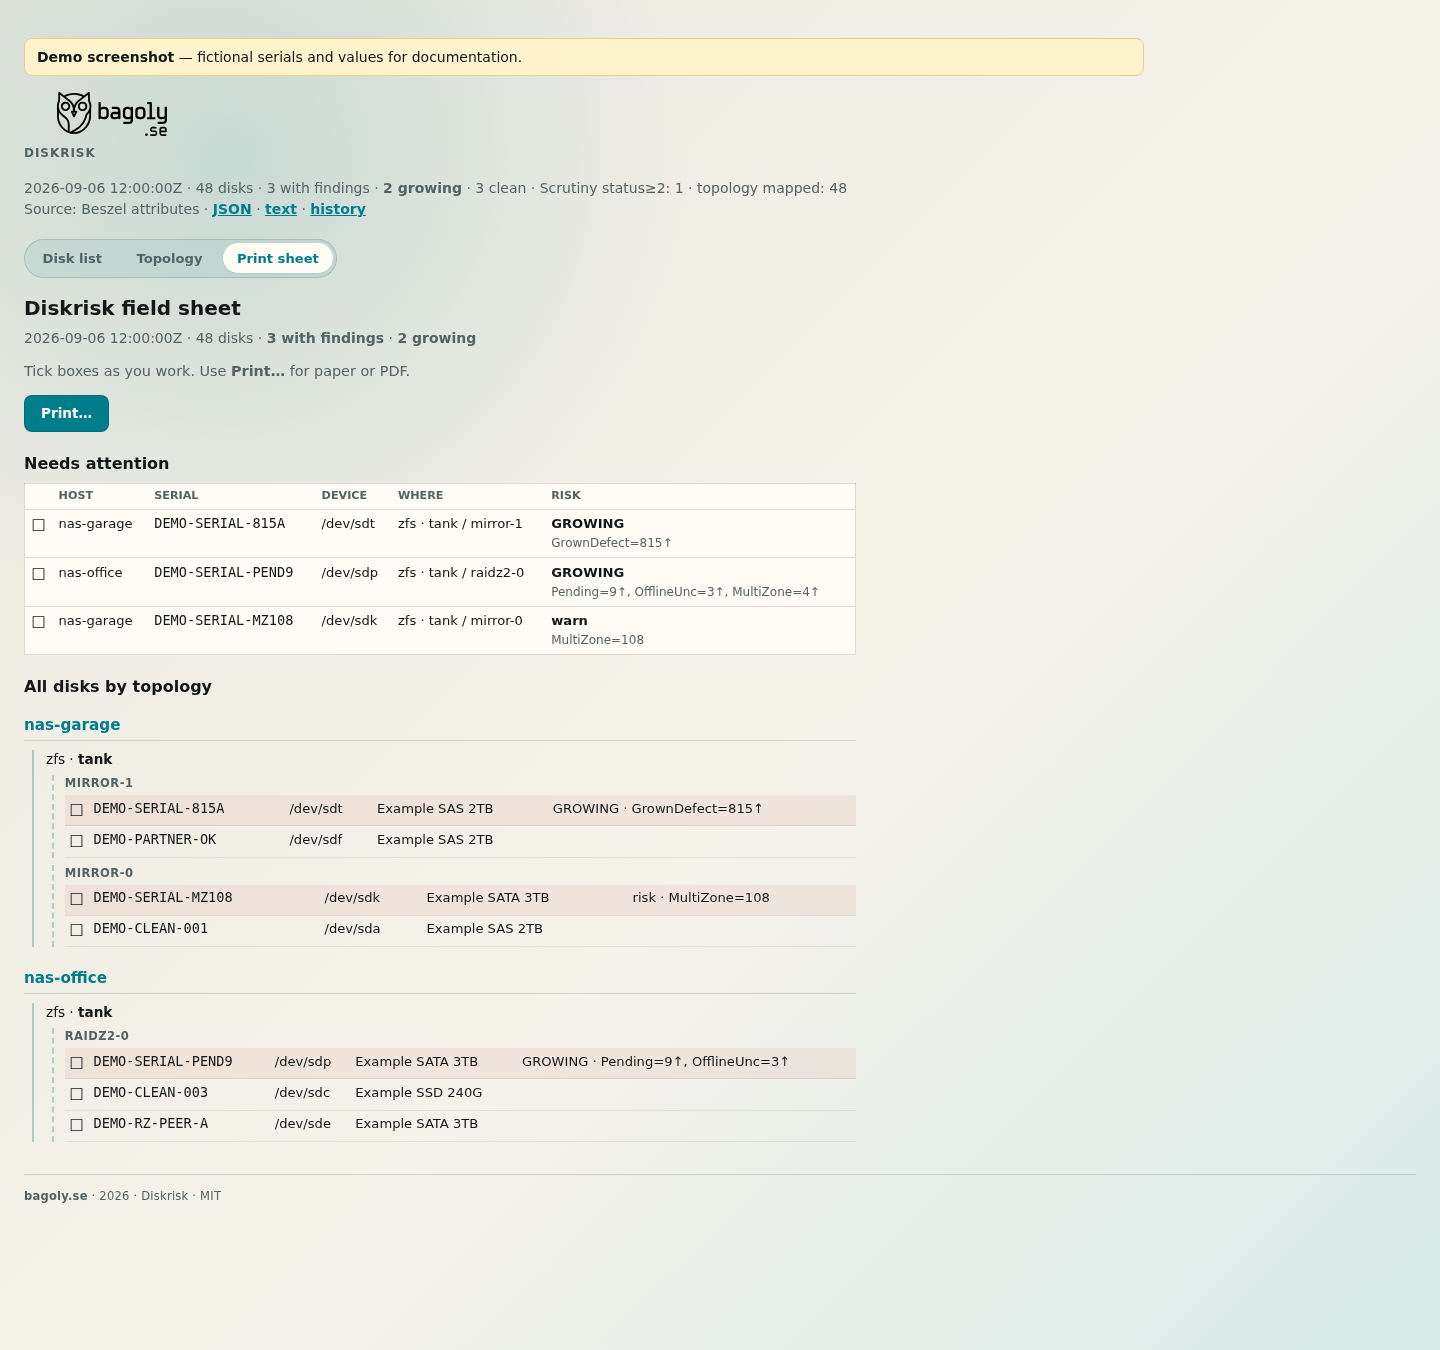
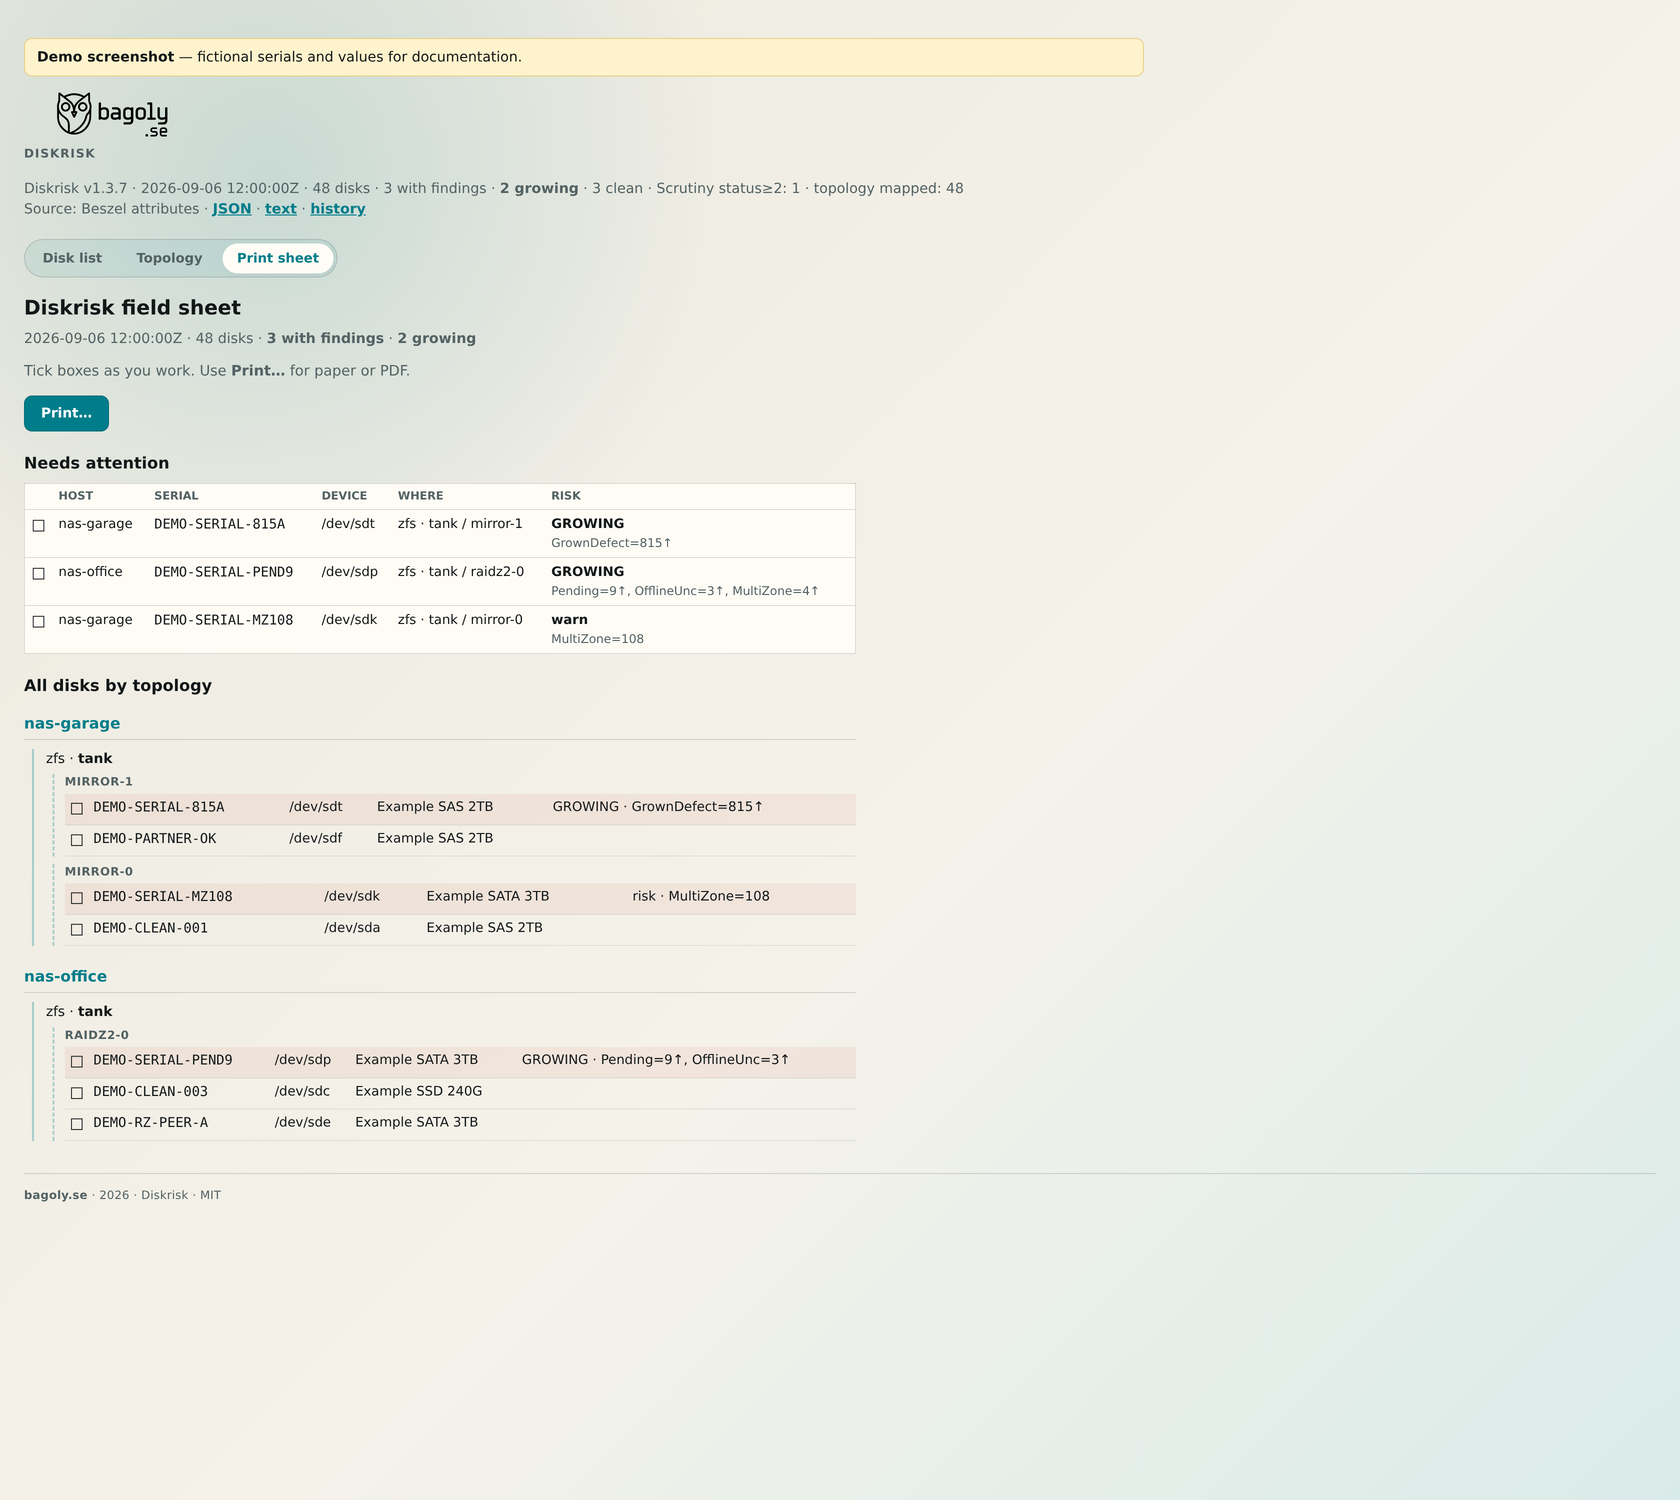
Refresh all demo screenshots to match live v1.3.7 UI List, boxed topology + SMART tables, print sheet, history modal, and diskinfo CLI demos regenerated for README / forum posts.

diff --git a/README.md b/README.md
@@ -60,11 +60,11 @@ Fictional serials — for illustration only.
 
 ![Diskrisk web UI — disk list](docs/images/diskrisk-ui-demo.png)
 
-*Disk list: multi-host risk with Now / Baseline / GROWING, Hist, and pool/vdev under serial.*
+*Disk list: multi-host risk with Now / Baseline / GROWING, Hist, pool/vdev under serial (v1.3.7).*
 
 ![Diskrisk topology](docs/images/diskrisk-topology-demo.png)
 
-*Topology: Host → pool → vdev; risk disks include the full SMART trend table + Hist.*
+*Topology: Host → pool → **boxed** vdevs (mirror / raidz / …); risk disks include the full SMART trend table + Hist.*
 
 ![Diskrisk print sheet](docs/images/diskrisk-print-demo.png)
 

diff --git a/CHANGELOG.md b/CHANGELOG.md
@@ -4,6 +4,7 @@
 
 ### Diskrisk
 - Topology: **box each vdev / role** (mirror, raidz, mergerfs, mdadm, spare) with a clear header — easier to see which disks share a failure domain
+- Docs screenshots refreshed to match live UI (list / topology / print / history)
 
 ## [1.3.6] — 2026-09-06
 
